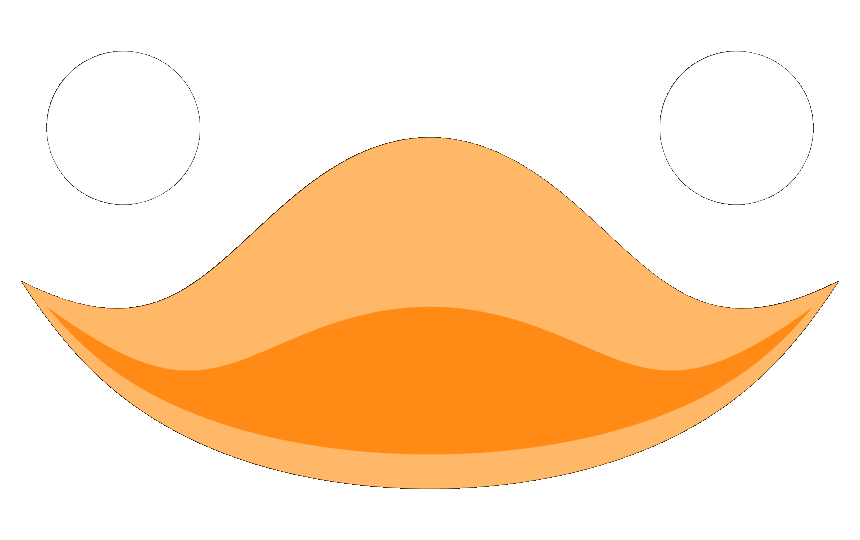
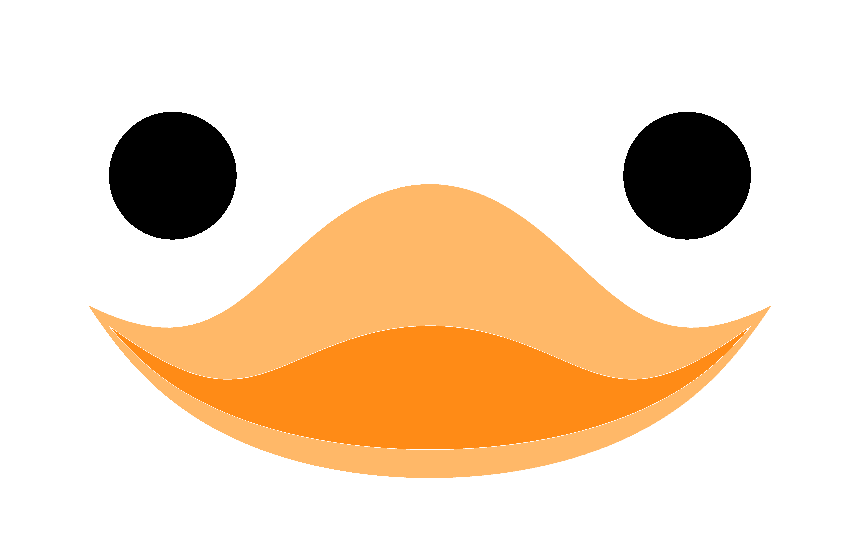
Add alpha-based background.

Changed region(s): [[0.0302, 0.237, 0.9674, 0.9185], [0.7256, 0.2074, 0.8767, 0.4444], [0.1209, 0.2074, 0.2721, 0.4444]]

diff --git a/examples/show_gus.py b/examples/show_gus.py
@@ -4,8 +4,14 @@ import gustaf as gus
 WITH_PUPILS = False
 WITH_DARK_BACKGROUND = False
 DARK_WITH_WHITE_OVAL_BACKGROUND = False
+WITH_ALPHA_BACKGROUND = False
 
 if __name__ == "__main__":
+    if WITH_ALPHA_BACKGROUND:
+        import vedo
+
+        vedo.settings.screenshot_transparent_background = 1
+
     l_eye = gus.spline.create.disk(0.15)
     l_eye.cps += [0.6, 0.2]
     l_eye.show_options["c"] = "black"
@@ -25,7 +31,7 @@ if __name__ == "__main__":
     r_pupil.cps += [-x_offset, y_offset]
     r_pupil.show_options["c"] = "white"
 
-    upperlip = gus.Bezier(
+    upper_lip = gus.Bezier(
         [5, 1],
         [
             [-0.8, -0.1],
@@ -42,12 +48,12 @@ if __name__ == "__main__":
             [0.75, -0.15],
         ],
     )
-    upperlip.show_options["c"] = "orange7"
+    upper_lip.show_options["c"] = "orange7"
 
-    innermouth = gus.Bezier(
+    inner_mouth = gus.Bezier(
         [5, 1],
         [
-            *upperlip.cps[6:],
+            *upper_lip.cps[6:],
             [-0.75, -0.15],
             [-0.6, -0.325],
             [-0.4, -0.525],
@@ -56,12 +62,12 @@ if __name__ == "__main__":
             [0.75, -0.15],
         ],
     )
-    innermouth.show_options["c"] = "orange5"
+    inner_mouth.show_options["c"] = "orange5"
 
-    lowerlip = gus.Bezier(
+    lower_lip = gus.Bezier(
         [5, 1],
         [
-            *innermouth.cps[6:],
+            *inner_mouth.cps[6:],
             [-0.8, -0.1],
             [-0.6, -0.4],
             [-0.4, -0.6],
@@ -70,9 +76,9 @@ if __name__ == "__main__":
             [0.8, -0.1],
         ],
     )
-    lowerlip.show_options["c"] = "orange7"
+    lower_lip.show_options["c"] = "orange7"
 
-    item_to_show = [l_eye, r_eye, upperlip, innermouth, lowerlip]
+    item_to_show = [l_eye, r_eye, upper_lip, inner_mouth, lower_lip]
     if WITH_PUPILS:
         item_to_show += [l_pupil, r_pupil]
 
@@ -106,6 +112,7 @@ if __name__ == "__main__":
             background[2].cps += [-x_shift, -height + y_shift]
             for elem in background:
                 elem.show_options["c"] = "white"
+                elem.show_options["alpha"] = 0.25
         else:
             l_eye.show_options["c"] = "white"
             r_eye.show_options["c"] = "white"
